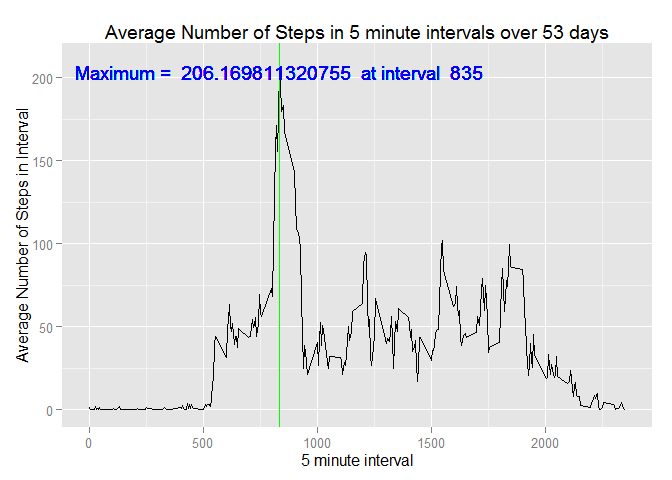
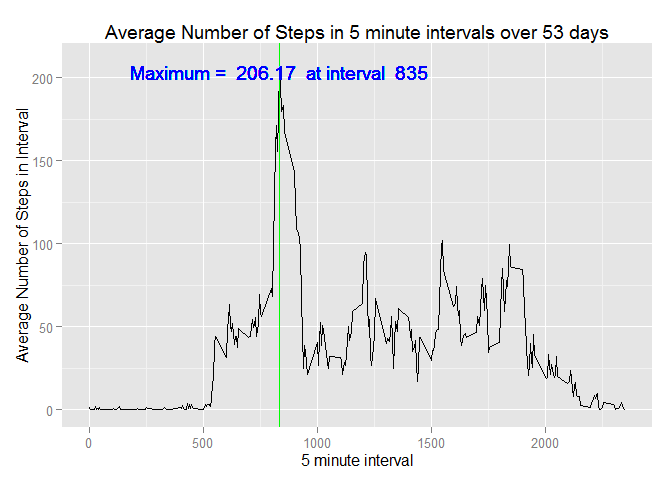
updated some of the text
I updated some of the text to make the description of the procee more
clear

Changed region(s): [[0.0938, 0.125, 0.4062, 0.1875], [0.4375, 0.125, 0.7188, 0.1875]]

diff --git a/PA1_template.html b/PA1_template.html
@@ -61,7 +61,7 @@ if (window.hljs && document.readyState && document.readyState === "complete") {
 <pre class="r"><code>activity_data &lt;- read.csv(&quot;.\\activity.csv&quot;,header = TRUE, stringsAsFactors = FALSE ) 
 library(ggplot2)</code></pre>
 <pre><code>## Warning: package 'ggplot2' was built under R version 3.1.3</code></pre>
-<p>Look at the first few items, note that they are NA</p>
+<p>Look at the first few items, note that the steps column has some NA</p>
 <pre class="r"><code>head(activity_data)</code></pre>
 <pre><code>##   steps       date interval
 ## 1    NA 2012-10-01        0
@@ -70,7 +70,7 @@ library(ggplot2)</code></pre>
 ## 4    NA 2012-10-01       15
 ## 5    NA 2012-10-01       20
 ## 6    NA 2012-10-01       25</code></pre>
-<p>Loading: Step 2. Transform the data into a suitable format. Let’s get only the complete rows there are (no NAs). We’ll use only the complete rows to do the first few analyses.</p>
+<p>Loading: Step 2. Transform the data into a suitable format. Let’s get only the complete rows there are no NAs. We’ll use only the complete rows to do the first few analyses.</p>
 <pre class="r"><code>complete_ad &lt;-activity_data[complete.cases(activity_data),]
 head(complete_ad)</code></pre>
 <pre><code>##     steps       date interval
@@ -119,14 +119,14 @@ gg &lt;- g+geom_line() </code></pre>
 <p>Which 5-minute, on average across all the days in the data set contains the maximum number of steps?</p>
 <p>There are a number of ways to do this. Order “averagePer5MinInterval” from greatest to least and then simply select the first value. That will give us the index of the maximum number of steps. The max value is found by looking at the index in averagePer5MinInteral. The particular 5-minute interval is found by finding the name of the row for the maximum value. Once these are all calculated, they can be added to the plot, and plotted.</p>
 <pre class="r"><code>indexOfMax &lt;- order(averagePer5MinInterval, decreasing=TRUE)[1]
-maxValue &lt;- averagePer5MinInterval[indexOfMax]
+maxValue &lt;- format(round(averagePer5MinInterval[indexOfMax],2))
 intervalForMax &lt;- unique(complete_ad$interval)[indexOfMax]
 annotMax &lt;-paste( &quot;Maximum = &quot;,maxValue, &quot; at interval &quot;, format(round(intervalForMax,2)))
 gline &lt;- gg + geom_vline(xintercept = intervalForMax,col=&quot;green&quot;) 
 gg2 &lt;- gline + geom_text(aes(x= intervalForMax, label=annotMax, y=210), colour=&quot;blue&quot;, vjust = 1.2) 
 ggdone &lt;- gg2 +  labs(x=&quot;5 minute interval&quot;) + labs(y=&quot;Average Number of Steps in Interval&quot;) + labs(title=&quot;Average Number of Steps in 5 minute intervals over 53 days&quot;)
 ggdone</code></pre>
[2 lines of base64/hex data omitted]
 </div>
 <div id="imputing-missing-values" class="section level2">
 <h2>Imputing missing values</h2>
@@ -152,7 +152,7 @@ abline(v=medianTotalSteps, col = &quot;green&quot;, lwd = 4)</code></pre>
 </div>
 <div id="are-there-differences-in-activity-patterns-between-weekdays-and-weekends" class="section level2">
 <h2>Are there differences in activity patterns between weekdays and weekends?</h2>
-<p>To determine if there are difference in activity patterns between weekdays and weekends, we’ll add a factor column called “Weekday” with values “weekday” and “weekend” to the complete cases dataset (complete_ad). Then we’ll use that column as a facet to plot the weekday and weekend. Start by making the date column an actual date class, and then add the new factor variable. We’ll use a little trick related to the integer values of FALSE evaluates to 0 and TRUE evaluates to 1. A boolean test of wether a day is a weekday will evaluate to FALSE if it is not and TRUE if it is. If 1 is added to these results, you will get 1 for a weekend and 2 for a weekday. The properly structured factor variable with these levels can then be used to fill in the column.</p>
+<p>To determine if there are differences in activity patterns between weekdays and weekends, we’ll add a factor column called “wday” with levels “weekday” and “weekend” to the complete cases dataset (complete_ad). Then we’ll use that column as a facet to plot the aerage daily values for weekends and weekdays.Start by making the date column an actual date class, and then add the new factor variable. We’ll use a little trick related to the fact that the integer value of FALSE evaluates to 0 and TRUE evaluates to 1. A boolean test of whether a day is a weekday will evaluate to FALSE if it is not and TRUE if it is. If 1 is added to these results, you will get 1 for a weekend and 2 for a weekday. The properly structured factor variable with these levels can then be used to fill in the column.</p>
 <pre class="r"><code>complete_ad$date &lt;- (as.Date(complete_ad$date))
 weekdaysVec &lt;- c(&quot;Monday&quot;,&quot;Tuesday&quot;,&quot;Wednesday&quot;,&quot;Thursday&quot;,&quot;Friday&quot;)
 weekDayFactor &lt;- factor(c(&quot;weekend&quot;,&quot;weekday&quot;), levels = c(&quot;weekend&quot;,&quot;weekday&quot;))
@@ -170,7 +170,7 @@ weekdayData &lt;- complete_ad[complete_ad$wday==weekDayFactor[2],]
 splitWeekdayInterval = split(weekdayData$steps,weekdayData$interval)
 sumByweekdayInterval &lt;- sapply(splitWeekdayInterval, sum)
 averagePer5MinIntervalWD &lt;- sumByweekdayInterval/nDaysweekday</code></pre>
-<p>Assemble the data into a dataframe. First, add the correct factor variable, then rbind the two data sets together so we can use the factor as the facet in the plot.</p>
+<p>Finally, assemble the data into a dataframe. First, add the correct factor variable, then rbind the two data sets together so we can use the factor as the facet in the plot.</p>
 <pre class="r"><code>dfweekend&lt;- data.frame(interval = unique(weekendData$interval),steps=averagePer5MinIntervalWE)
 dfweekend$wday &lt;- factor(levels(weekDayFactor)[1])
 

diff --git a/README.md b/README.md
@@ -1,0 +1,168 @@
+## Introduction
+
+It is now possible to collect a large amount of data about personal
+movement using activity monitoring devices such as a
+[Fitbit](http://www.fitbit.com), [Nike
+Fuelband](http://www.nike.com/us/en_us/c/nikeplus-fuelband), or
+[Jawbone Up](https://jawbone.com/up). These type of devices are part of
+the "quantified self" movement -- a group of enthusiasts who take
+measurements about themselves regularly to improve their health, to
+find patterns in their behavior, or because they are tech geeks. But
+these data remain under-utilized both because the raw data are hard to
+obtain and there is a lack of statistical methods and software for
+processing and interpreting the data.
+
+This assignment makes use of data from a personal activity monitoring
+device. This device collects data at 5 minute intervals through out the
+day. The data consists of two months of data from an anonymous
+individual collected during the months of October and November, 2012
+and include the number of steps taken in 5 minute intervals each day.
+
+## Data
+
+The data for this assignment can be downloaded from the course web
+site:
+
+* Dataset: [Activity monitoring data](https://d396qusza40orc.cloudfront.net/repdata%2Fdata%2Factivity.zip) [52K]
+
+The variables included in this dataset are:
+
+* **steps**: Number of steps taking in a 5-minute interval (missing
+    values are coded as `NA`)
+
+* **date**: The date on which the measurement was taken in YYYY-MM-DD
+    format
+
+* **interval**: Identifier for the 5-minute interval in which
+    measurement was taken
+
+
+
+
+The dataset is stored in a comma-separated-value (CSV) file and there
+are a total of 17,568 observations in this
+dataset.
+
+
+## Assignment
+
+This assignment will be described in multiple parts. You will need to
+write a report that answers the questions detailed below. Ultimately,
+you will need to complete the entire assignment in a **single R
+markdown** document that can be processed by **knitr** and be
+transformed into an HTML file.
+
+Throughout your report make sure you always include the code that you
+used to generate the output you present. When writing code chunks in
+the R markdown document, always use `echo = TRUE` so that someone else
+will be able to read the code. **This assignment will be evaluated via
+peer assessment so it is essential that your peer evaluators be able
+to review the code for your analysis**.
+
+For the plotting aspects of this assignment, feel free to use any
+plotting system in R (i.e., base, lattice, ggplot2)
+
+Fork/clone the [GitHub repository created for this
+assignment](http://github.com/rdpeng/RepData_PeerAssessment1). You
+will submit this assignment by pushing your completed files into your
+forked repository on GitHub. The assignment submission will consist of
+the URL to your GitHub repository and the SHA-1 commit ID for your
+repository state.
+
+NOTE: The GitHub repository also contains the dataset for the
+assignment so you do not have to download the data separately.
+
+
+
+### Loading and preprocessing the data
+
+Show any code that is needed to
+
+1. Load the data (i.e. `read.csv()`)
+
+2. Process/transform the data (if necessary) into a format suitable for your analysis
+
+
+### What is mean total number of steps taken per day?
+
+For this part of the assignment, you can ignore the missing values in
+the dataset.
+
+1. Make a histogram of the total number of steps taken each day
+
+2. Calculate and report the **mean** and **median** total number of steps taken per day
+
+
+### What is the average daily activity pattern?
+
+1. Make a time series plot (i.e. `type = "l"`) of the 5-minute interval (x-axis) and the average number of steps taken, averaged across all days (y-axis)
+
+2. Which 5-minute interval, on average across all the days in the dataset, contains the maximum number of steps?
+
+
+### Imputing missing values
+
+Note that there are a number of days/intervals where there are missing
+values (coded as `NA`). The presence of missing days may introduce
+bias into some calculations or summaries of the data.
+
+1. Calculate and report the total number of missing values in the dataset (i.e. the total number of rows with `NA`s)
+
+2. Devise a strategy for filling in all of the missing values in the dataset. The strategy does not need to be sophisticated. For example, you could use the mean/median for that day, or the mean for that 5-minute interval, etc.
+
+3. Create a new dataset that is equal to the original dataset but with the missing data filled in.
+
+4. Make a histogram of the total number of steps taken each day and Calculate and report the **mean** and **median** total number of steps taken per day. Do these values differ from the estimates from the first part of the assignment? What is the impact of imputing missing data on the estimates of the total daily number of steps?
+
+
+### Are there differences in activity patterns between weekdays and weekends?
+
+For this part the `weekdays()` function may be of some help here. Use
+the dataset with the filled-in missing values for this part.
+
+1. Create a new factor variable in the dataset with two levels -- "weekday" and "weekend" indicating whether a given date is a weekday or weekend day.
+
+1. Make a panel plot containing a time series plot (i.e. `type = "l"`) of the 5-minute interval (x-axis) and the average number of steps taken, averaged across all weekday days or weekend days (y-axis). The plot should look something like the following, which was created using **simulated data**:
+
+![Sample panel plot](instructions_fig/sample_panelplot.png) 
+
+
+**Your plot will look different from the one above** because you will
+be using the activity monitor data. Note that the above plot was made
+using the lattice system but you can make the same version of the plot
+using any plotting system you choose.
+
+
+## Submitting the Assignment
+
+To submit the assignment:
+
+1. Commit your completed `PA1_template.Rmd` file to the `master` branch of your git repository (you should already be on the `master` branch unless you created new ones)
+
+2. Commit your `PA1_template.md` and `PA1_template.html` files produced by processing your R markdown file with the `knit2html()` function in R (from the **knitr** package)
+
+3. If your document has figures included (it should) then they should have been placed in the `figure/` directory by default (unless you overrode the default). Add and commit the `figure/` directory to your git repository.
+
+4. Push your `master` branch to GitHub.
+
+5. Submit the URL to your GitHub repository for this assignment on the course web site.
+
+In addition to submitting the URL for your GitHub repository, you will
+need to submit the 40 character SHA-1 hash (as string of numbers from
+0-9 and letters from a-f) that identifies the repository commit that
+contains the version of the files you want to submit. You can do this
+in GitHub by doing the following:
+
+1. Go into your GitHub repository web page for this assignment
+
+2. Click on the "?? commits" link where ?? is the number of commits you have in the repository. For example, if you made a total of 10 commits to this repository, the link should say "10 commits".
+
+3. You will see a list of commits that you have made to this repository. The most recent commit is at the very top. If this represents the version of the files you want to submit, then just click the "copy to clipboard" button on the right hand side that should appear when you hover over the SHA-1 hash. Paste this SHA-1 hash into the course web site when you submit your assignment. If you don't want to use the most recent commit, then go down and find the commit you want and copy the SHA-1 hash.
+
+A valid submission will look something like (this is just an **example**!)
+
+```r
+https://github.com/rdpeng/RepData_PeerAssessment1
+
+7c376cc5447f11537f8740af8e07d6facc3d9645
+```

diff --git a/PA1_template.md b/PA1_template.md
@@ -12,7 +12,7 @@ library(ggplot2)
 ```
 ## Warning: package 'ggplot2' was built under R version 3.1.3
 ```
-Look at the first few items, note that they are NA
+Look at the first few items, note that the steps column has some NA
 
 ```r
 head(activity_data)
@@ -28,7 +28,7 @@ head(activity_data)
 ## 6    NA 2012-10-01       25
 ```
 Loading: Step 2. Transform the data into a suitable format. 
-Let's get only the complete rows there are (no NAs). We'll use only the complete rows to do the first few analyses. 
+Let's get only the complete rows there are no NAs. We'll use only the complete rows to do the first few analyses. 
 
 ```r
 complete_ad <-activity_data[complete.cases(activity_data),]
@@ -110,7 +110,7 @@ There are a number of ways to do this. Order "averagePer5MinInterval" from great
 
 ```r
 indexOfMax <- order(averagePer5MinInterval, decreasing=TRUE)[1]
-maxValue <- averagePer5MinInterval[indexOfMax]
+maxValue <- format(round(averagePer5MinInterval[indexOfMax],2))
 intervalForMax <- unique(complete_ad$interval)[indexOfMax]
 annotMax <-paste( "Maximum = ",maxValue, " at interval ", format(round(intervalForMax,2)))
 gline <- gg + geom_vline(xintercept = intervalForMax,col="green") 
@@ -156,7 +156,7 @@ The mean total steps in this case is 10766.19 compared to the previous value of 
 
 ## Are there differences in activity patterns between weekdays and weekends?
 
-To determine if there are difference in activity patterns between weekdays and weekends, we'll add a factor column called "Weekday" with values "weekday" and "weekend" to the complete cases dataset (complete_ad). Then we'll use that column as a facet to plot the weekday and weekend. Start by making the date column an actual date class, and then add the new factor variable. We'll use a little trick related to the integer values of FALSE evaluates to 0 and TRUE evaluates to 1. A boolean test of wether a day is a weekday will evaluate to FALSE if it is not and TRUE if it is. If 1 is added to these results, you will get 1 for a weekend and 2 for a weekday. The properly structured factor variable with these levels can then be used to fill in the column.
+To determine if there are differences in activity patterns between weekdays and weekends, we'll add a factor column called "wday" with levels "weekday" and "weekend" to the complete cases dataset (complete_ad). Then we'll use that column as a facet to plot the aerage daily values for weekends and weekdays.Start by making the date column an actual date class, and then add the new factor variable. We'll use a little trick related to the fact that the integer value of FALSE evaluates to 0 and TRUE evaluates to 1. A boolean test of whether a day is a weekday will evaluate to FALSE if it is not and TRUE if it is. If 1 is added to these results, you will get 1 for a weekend and 2 for a weekday. The properly structured factor variable with these levels can then be used to fill in the column.
 
 
 ```r
@@ -181,7 +181,7 @@ splitWeekdayInterval = split(weekdayData$steps,weekdayData$interval)
 sumByweekdayInterval <- sapply(splitWeekdayInterval, sum)
 averagePer5MinIntervalWD <- sumByweekdayInterval/nDaysweekday
 ```
-Assemble the data into a dataframe. First, add the correct factor variable, then rbind the two data sets together so we can use the factor as the facet in the plot. 
+Finally, assemble the data into a dataframe. First, add the correct factor variable, then rbind the two data sets together so we can use the factor as the facet in the plot. 
 
 ```r
 dfweekend<- data.frame(interval = unique(weekendData$interval),steps=averagePer5MinIntervalWE)
